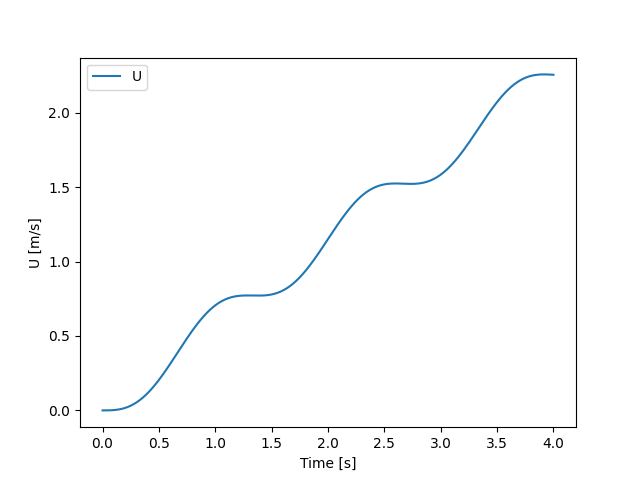
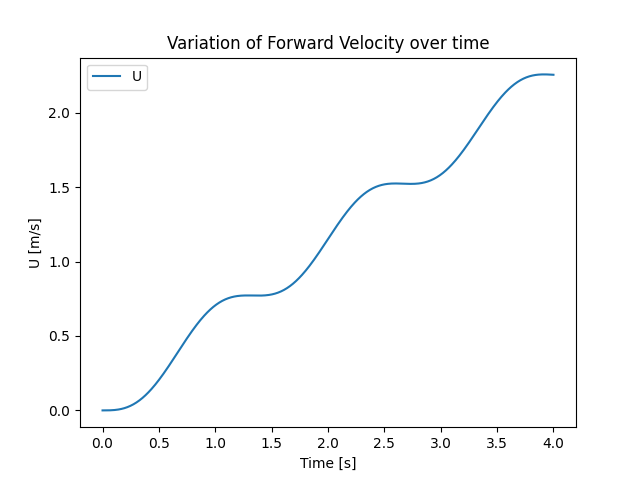
Added titles for graphs

Changed region(s): [[0.25, 0.0625, 0.7812, 0.125]]

diff --git a/FoVCalc copy.py b/FoVCalc copy.py
@@ -244,6 +244,7 @@ plt.figure(figure)
 figure+=1
 ax=plt.gca()
 behaviour.plot(kind="line", x="Time", y="Input", ax=ax)
+plt.title("Variation of Control Input over time")
 plt.xlabel('Time [s]')
 plt.ylabel('Control Input [rad/s]')
 plt.savefig("Visuals/Input")
@@ -253,6 +254,7 @@ plt.figure(figure)
 figure+=1
 ax=plt.gca()
 behaviour.plot(kind="line", x="Time", y="Theta_deg", ax=ax)
+plt.title("Variation of Pitch Angle over time")
 plt.xlabel('Time [s]')
 plt.ylabel('Theta [deg]')
 plt.savefig("Visuals/Theta")
@@ -262,6 +264,7 @@ plt.figure(figure)
 figure+=1
 ax=plt.gca()
 behaviour.plot(kind="line", x="Time", y="U", ax=ax)
+plt.title("Variation of Forward Velocity over time")
 plt.xlabel('Time [s]')
 plt.ylabel('U [m/s]')
 plt.savefig("Visuals/U")
